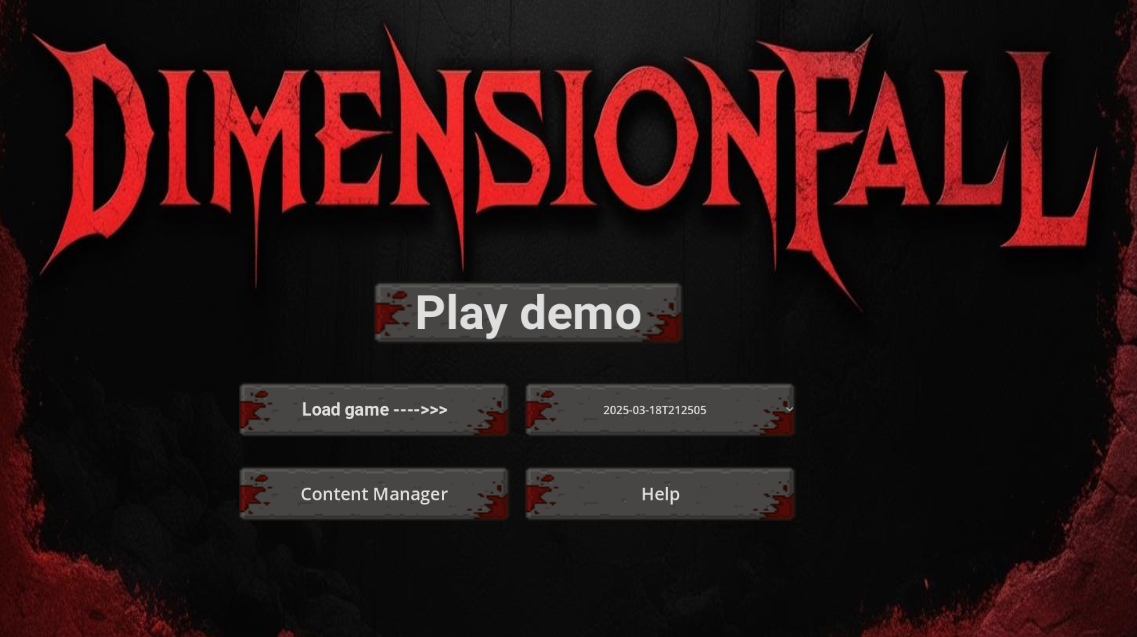
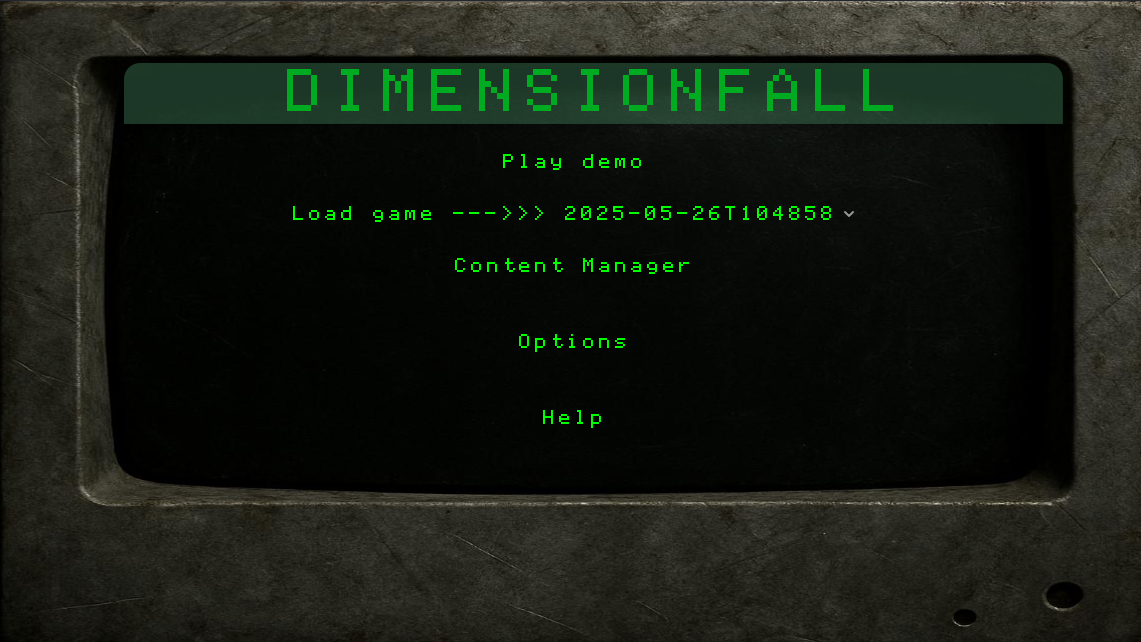
Update main menu screenshot

diff --git a/FeatureList.md b/FeatureList.md
@@ -43,7 +43,14 @@ Crafting stations allow off-handed crafting while you're doing other stuff. Expa
 - Load a game
 - Read documentation
 - Manage content for the game
-![Catax_main_menu](Media/Dimensionfall_main_menu.png)
+![Dimensionfall_main_menu](Media/Dimensionfall_main_menu.png)
+
+
+### Add/Remove Mods Menu
+
+Manage the game’s content dynamically using the Add/Remove Mods menu. From this menu, you can enable, disable, reorder, and inspect mods without leaving the game. When selecting a mod, its details are shown on the right:
+
+![Dimensionfall_add_remove_mod_menu](Media/Dimensionfall_add_remove_mod_menu.png)
 
 
 ### Content editor
